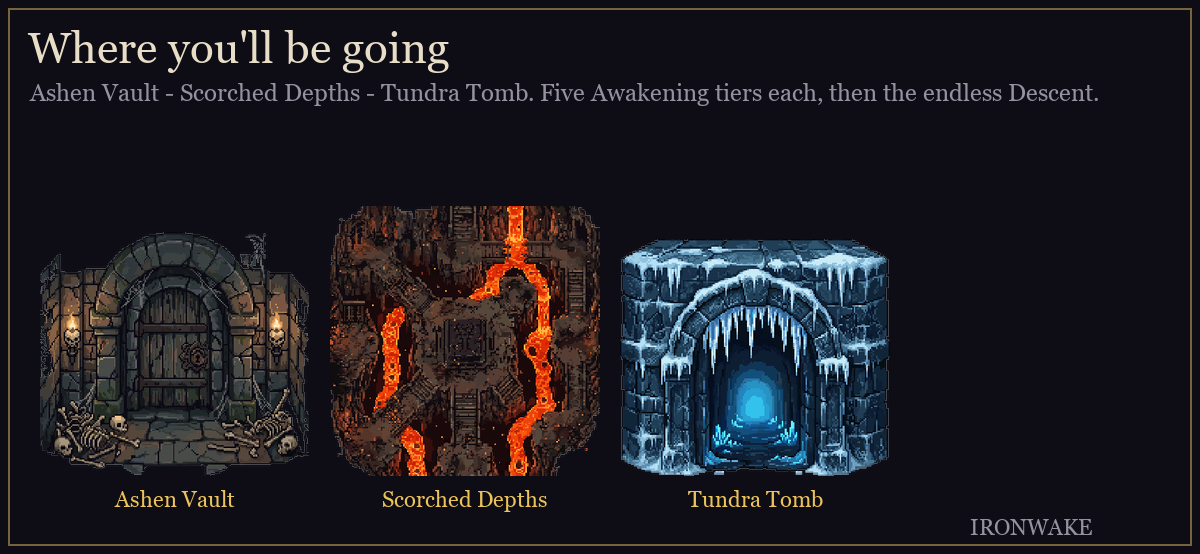
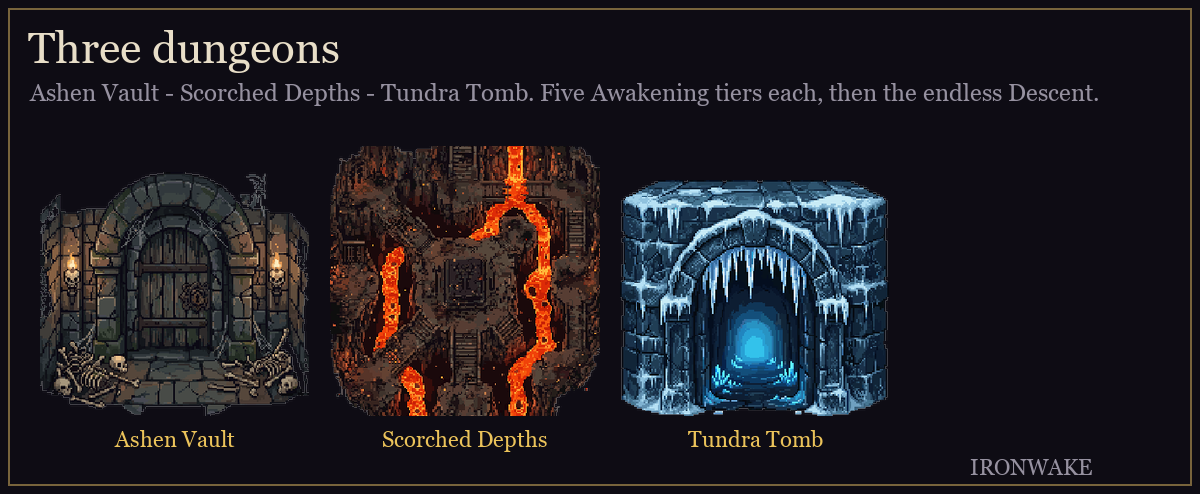
Social posts: launch post uses the Steam key art; dungeons card retitled + tiles uniform

Changed region(s): [[0.0308, 0.2733, 0.74, 0.9413], [0.0, 0.0, 0.9867, 0.2126], [0.0, 0.9109, 0.9867, 1.0]]

diff --git a/Ironwake/tools/make_social_posts.py b/Ironwake/tools/make_social_posts.py
@@ -148,9 +148,11 @@ lineup(os.path.join(IMG, "npcs_camp.png"), "The camp at Ironwake", "Seven people
 lineup(os.path.join(IMG, "bosses.png"), "Three dungeons, three final bosses", "The Ashen Vault, the Scorched Depths, the Tundra Tomb - and what waits at the bottom of each.",
        [("Malgrath the Warden", spr_png("spr_malgrath_warden_ff")), ("Forge Tyrant", spr_png("spr_forge_tyrant")), ("The Eternal Frost", spr_png("spr_eternal_frost")),
         ("Bone Sovereign", spr_png("spr_bone_sovereign_hd")), ("Molten Revenant", spr_png("spr_molten_revenant")), ("Glacial Warden", spr_png("spr_glacial_warden"))], cell_h=300, cols=3)
-lineup(os.path.join(IMG, "dungeons.png"), "Where you'll be going", "Ashen Vault - Scorched Depths - Tundra Tomb. Five Awakening tiers each, then the endless Descent.",
+# Launch post = the Steam key art, untouched (no caption bar on a hero image).
+shutil.copyfile(os.path.join(ROOT, "tools", "steam", "art", "key_art_master.png"), os.path.join(IMG, "key_art.png"))
+lineup(os.path.join(IMG, "dungeons.png"), "Three dungeons", "Ashen Vault - Scorched Depths - Tundra Tomb. Five Awakening tiers each, then the endless Descent.",
        [("Ashen Vault", spr_png("spr_dungeon_ashen_vault")), ("Scorched Depths", spr_png("spr_dungeon_scorched_depths")), ("Tundra Tomb", spr_png("spr_dungeon_tundra_tomb"))],
-       cell_h=360, cols=3, crisp_px=False)
+       cell_h=300, cols=3, crisp_px=False)
 lineup(os.path.join(IMG, "classes.png"), "Three classes", "Arcanist - Bloodwarden - Shadowstrider. Pick one, build it your way.",
        [("Arcanist", spr_png("spr_portrait_arc_m1")), ("Bloodwarden", spr_png("spr_portrait_blood_m2")), ("Shadowstrider", spr_png("spr_portrait_shadow_m1"))],
        cell_h=420, cols=3, crisp_px=False)
@@ -189,7 +191,7 @@ A dark-fantasy roguelite where you dive into three dungeons, fight turn-based ba
 
 {STORE}
 
-{TAGS}""", I("dungeons.png"), "Pin this one. Add the Play Store link in a reply once the listing is live.")
+{TAGS}""", I("key_art.png"), "Pin this one. Add the Play Store link in a reply once the listing is live.")
 write(D(1), 2, "What the game is, in one breath",
 f"""What is Ironwake?
 
